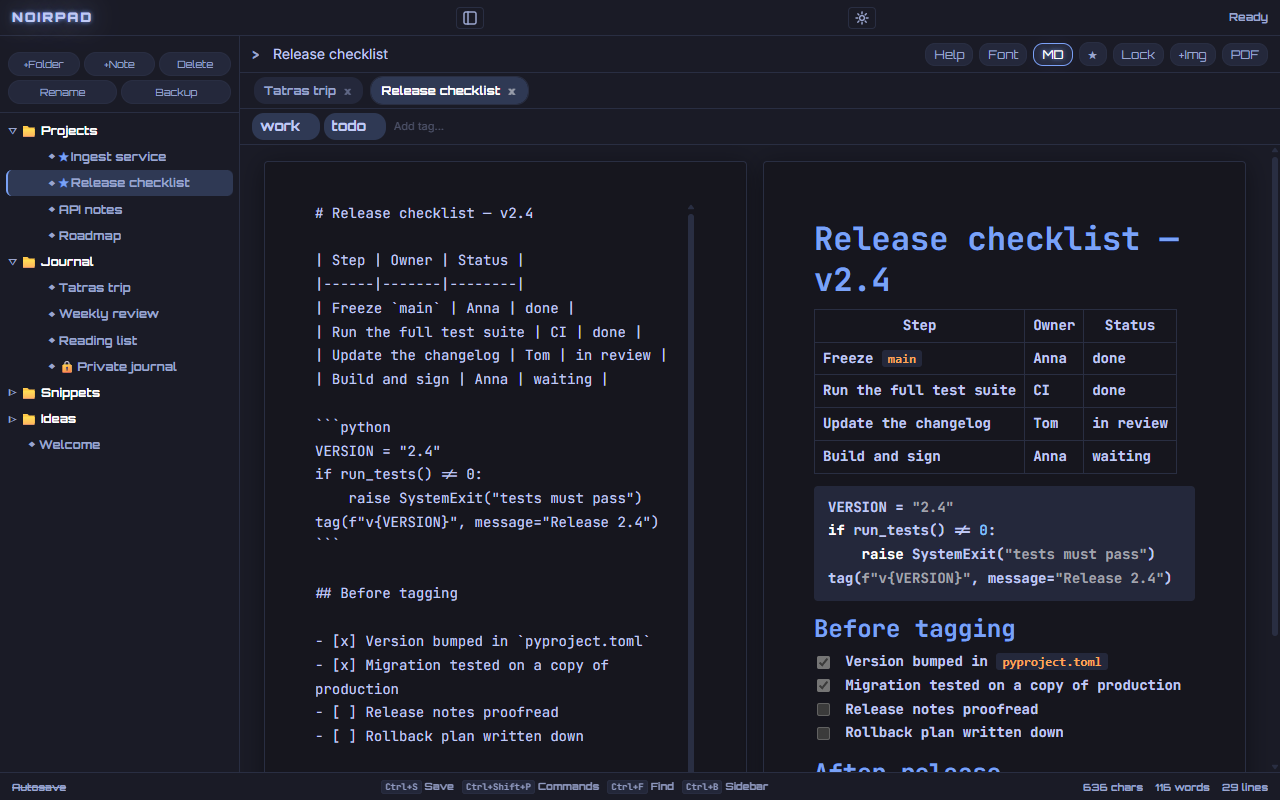
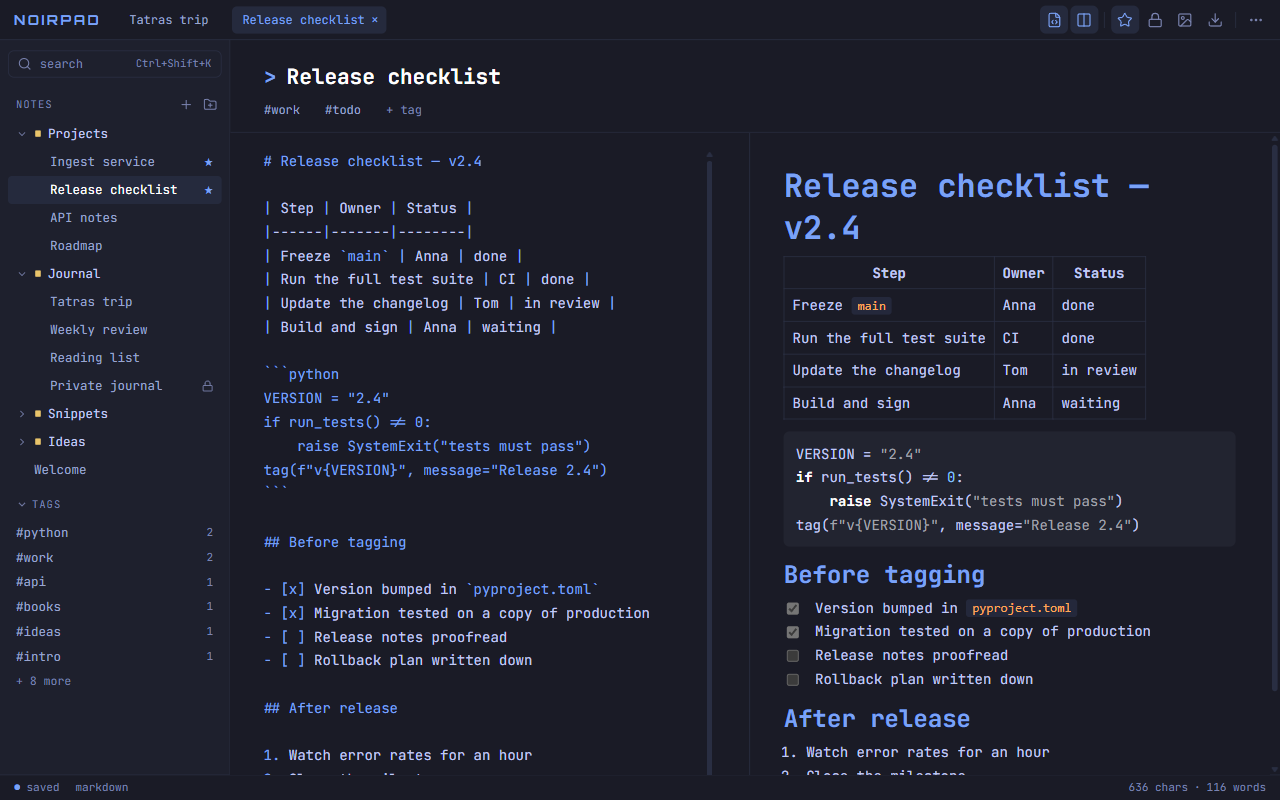
README: popis rozhraní, Noir efekty v Nastavení, Ctrl+Shift+K; nové screenshoty a demo GIF
- README (en/cs): sekce Rozhraní, Noir efekty ve výchozím stavu vypnuté, hledání ve všech
  poznámkách Ctrl+Shift+K, pravopis ve výchozím stavu zapnutý (docs-writer).
- Screenshoty a demo GIF přegenerované v novém vzhledu (hero Matrix, split view Tokyo Night).
- CLAUDE.md: tokeny --control-off*, --md-src-text a md-source.js.

diff --git a/README.cs.md b/README.cs.md
@@ -27,9 +27,21 @@
   a NoirPad sám nic po síti neposílá.
 - **Šifrování jednotlivých poznámek** — každou poznámku můžete zamknout vlastním heslem.
 - **Skutečný Markdown** — živý náhled vedle zdroje, tabulky, úkoly a zvýrazněný kód.
-- **17 motivů** — od zelené Matrix po Tokyo Night, k tomu záře, CRT řádky a padající znaky.
+- **17 motivů** — od zelené Matrix po Tokyo Night, k tomu volitelná záře, CRT řádky a padající znaky.
 
 ## Funkce
+
+### Rozhraní
+
+- **Horní lišta** v jednom řádku: nápis NOIRPAD, karty otevřených poznámek a ikonová tlačítka -
+  režim Markdown, náhled vedle zdroje, oblíbené, zámek, vložení obrázku, export a menu ⋯.
+- **Levý panel**: nahoře hledání, sekce **POZNÁMKY** (strom složek; kontextové menu
+  *Přejmenovat* / *Přesunout do…* / *Smazat*) a **ŠTÍTKY** (6 nejpoužívanějších a „+ N dalších";
+  kliknutím na štítek filtrujete; kliknutím na nadpis sekci sbalíte - NoirPad si to pamatuje).
+- **Hlavička poznámky**: přejmenování na místě, pod názvem štítky.
+- Editor i náhled jsou bez rámečků. Zdroj Markdownu je obarvený: nadpisy, značky a kód v barvě
+  akcentu, běžný text tlumeněji.
+- **Stavový řádek**: ● uloženo / ○ neuloženo, režim, počty.
 
 ### Psaní
 
@@ -40,6 +52,7 @@
 - **Obrázky**: vložte, přetáhněte nebo přidejte tlačítkem; `Ctrl`+kolečko mění velikost obrázku
   v poznámce.
 - Ukládání `Ctrl+S`, nebo zapněte automatické ukládání v Nastavení.
+- Kontrola pravopisu je ve výchozím stavu zapnutá (Nastavení → Editor).
 
 ### Markdown a kód
 
@@ -63,7 +76,10 @@
 ![Stejná poznámka ve čtyřech motivech: Matrix, Tokyo Night, Amber a Dracula](docs/screenshots/themes.png)
 
 - **17 motivů**; nastavit jde i písmo rozhraní a editoru.
-- Síla záře, CRT řádky a padající znaky — každé jde vypnout.
+- **Noir efekty** - záře, Matrix déšť na pozadí, CRT řádkování a efekt „glitch" při psaní - jsou
+  ve výchozím stavu **vypnuté**. Zapnete je v Nastavení → Noir efekty, jednotlivě nebo jedním
+  přepínačem *Všechny Noir efekty*. Starší instalace si po upgradu ponechají dosavadní vzhled
+  (záře zapnutá, déšť pokud jste ho nevypnuli).
 - Rozhraní česky a anglicky; NoirPad začne v jazyce, který jste zvolili v instalátoru.
 
 ### Organizace
@@ -72,7 +88,7 @@
 
 - **Složky** s přetahováním, **štítky**, **oblíbené** (připnuté nahoru ve své složce) a **koš**
   s obnovením.
-- **Hledání** v poznámce (`Ctrl+F`) i ve všech poznámkách; **příkazová lišta** (`Ctrl+Shift+P`)
+- **Hledání** v poznámce (`Ctrl+F`) i ve všech poznámkách (`Ctrl+Shift+K`, pole *hledat* nahoře v levém panelu); **příkazová lišta** (`Ctrl+Shift+P`)
   spouští příkazy jako `:theme`, `:tag`, `:export`.
 - Každou zkratku si můžete přenastavit.
 
@@ -91,6 +107,7 @@
 | `Ctrl+S` | Uložit |
 | `Ctrl+M` | Přepnout poznámku mezi formátovaným textem a Markdownem |
 | `Ctrl+F`, `F3` / `Shift+F3` | Hledat v poznámce, další / předchozí výskyt |
+| `Ctrl+Shift+K` | Hledat ve všech poznámkách |
 | `Ctrl+Shift+L` | Zamknout nebo odemknout poznámku |
 | `Ctrl+Shift+P` | Příkazová lišta |
 | `Ctrl+D` | Přidat do oblíbených / odebrat |

diff --git a/README.md b/README.md
@@ -27,9 +27,21 @@
   network requests of its own.
 - **Per-note encryption** — lock any note with its own password.
 - **Real Markdown** — live side-by-side preview, tables, task lists and syntax-highlighted code.
-- **17 themes** — from Matrix green to Tokyo Night, plus glow, CRT scanlines and Matrix rain.
+- **17 themes** — from Matrix green to Tokyo Night, plus optional glow, CRT scanlines and Matrix rain.
 
 ## Features
+
+### Interface
+
+- **Top bar** in one row: the NOIRPAD wordmark, tabs of open notes and icon buttons - Markdown
+  mode, preview next to the source, favorite, lock, insert image, export and the ⋯ menu.
+- **Left panel**: search at the top, **NOTES** (folder tree; context menu *Rename* / *Move to…* /
+  *Delete*) and **TAGS** (the 6 most used plus "+ N more"; click a tag to filter; click the heading
+  to collapse the section - NoirPad remembers it).
+- **Note header**: rename in place, tags below the title.
+- Editor and preview have no frames. The Markdown source is colored: headings, markers and code
+  in the accent color, plain text more muted.
+- **Status bar**: ● saved / ○ not saved, mode, counts.
 
 ### Writing
 
@@ -38,6 +50,7 @@
 - Each note is **rich text** or **Markdown** (`Ctrl+M`), with tabs for open notes and a focus mode.
 - **Images**: paste, drag & drop or insert them; `Ctrl`+wheel resizes an image in the note.
 - Save with `Ctrl+S`, or turn on autosave in Settings.
+- Spellcheck is on by default (Settings → Editor).
 
 ### Markdown & code
 
@@ -61,7 +74,10 @@
 ![The same note in four themes: Matrix, Tokyo Night, Amber and Dracula](docs/screenshots/themes.png)
 
 - **17 themes**; UI and editor fonts are configurable too.
-- Glow intensity, CRT scanlines and Matrix rain — each can be switched off.
+- **Noir effects** - glow, Matrix rain in the background, CRT scanlines and a glitch effect while
+  typing - are **off by default**. Turn them on in Settings → Noir effects, one by one or with
+  the single *All Noir effects* switch. Existing installations keep their previous look after the
+  upgrade (glow on, rain unless you had switched it off).
 - English and Czech UI; NoirPad starts in the language you chose in the installer.
 
 ### Organize
@@ -70,7 +86,7 @@
 
 - **Folders** with drag & drop, **tags**, **favorites** (pinned to the top of their folder) and a
   **trash** with restore.
-- **Find** in the note (`Ctrl+F`) or across all notes; the **command bar** (`Ctrl+Shift+P`)
+- **Find** in the note (`Ctrl+F`) or across all notes (`Ctrl+Shift+K`, the *search* field at the top of the left panel); the **command bar** (`Ctrl+Shift+P`)
   runs commands like `:theme`, `:tag`, `:export`.
 - Every shortcut can be remapped in Settings.
 
@@ -89,6 +105,7 @@
 | `Ctrl+S` | Save |
 | `Ctrl+M` | Switch the note between rich text and Markdown |
 | `Ctrl+F`, `F3` / `Shift+F3` | Find in the note, next / previous match |
+| `Ctrl+Shift+K` | Search all notes |
 | `Ctrl+Shift+L` | Lock or unlock the note |
 | `Ctrl+Shift+P` | Command bar |
 | `Ctrl+D` | Add to / remove from favorites |

diff --git a/CLAUDE.md b/CLAUDE.md
@@ -45,7 +45,11 @@ Local notes app: FastAPI backend (`noirpad/`), vanilla-JS frontend (`static/`), 
 
 ## Design tokens / theming
 - `static/css/themes.css` (17 themes). Tokens added in the redesign: `--font-brand`, `--bg-panel`,
-  `--folder-color`, `--code-bg`, `--accent-soft`, `--danger`. Use tokens, not hard-coded colours.
+  `--folder-color`, `--code-bg`, `--accent-soft`, `--danger`; later `--control-off`,
+  `--control-off-track` (grey off state of toggles) and `--md-src-text` (plain text in the
+  Markdown source). Use tokens, not hard-coded colours.
+- Markdown source colouring: `static/js/md-source.js` renders the underlay `#md-highlight` beneath
+  the textarea `#editor-md` (drawn transparent while in sync); keep font metrics and scrolling identical.
 - `tests/test_contrast.py` checks all 17 themes: text >= 4.5:1, icons / muted >= 3:1. Run it after
   touching any theme colour.
 - The shared window style (dialogs, menus, popups) is the block "G7" at the end of `noirpad.css`.
